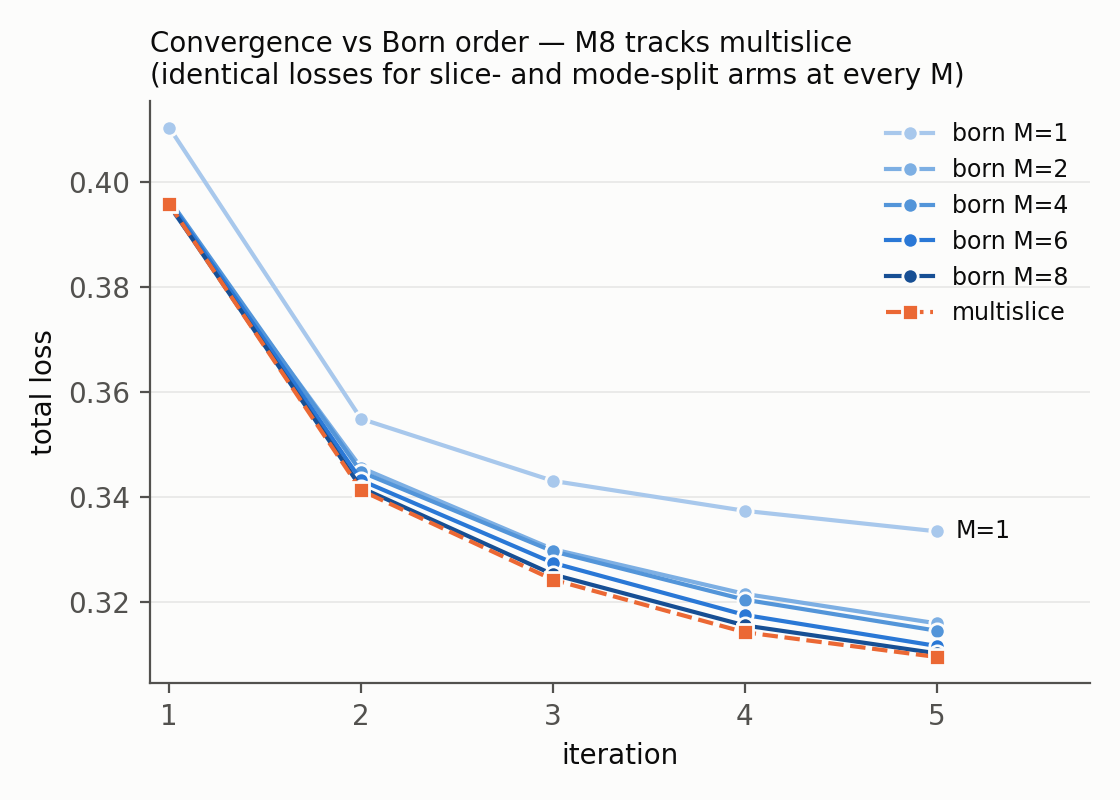
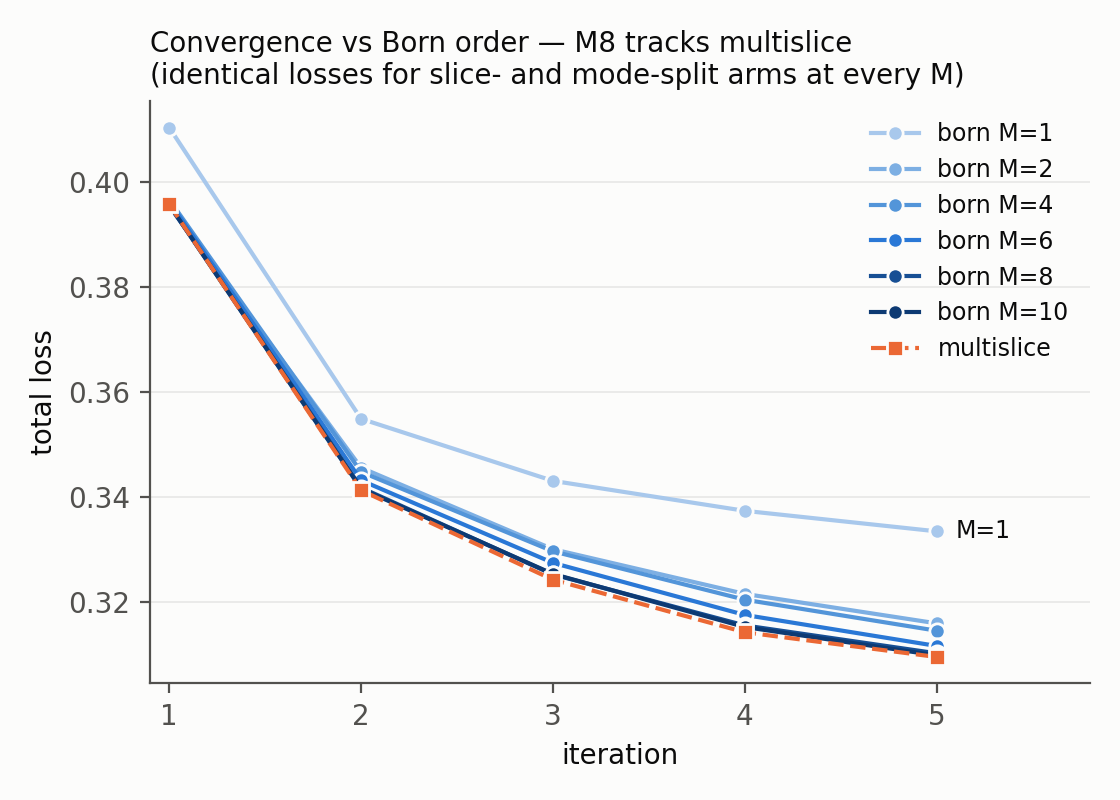
Figures: M=10 re-measured on H200 (224.2 s/iter, loss 0.3099) joins the main ladder; H100 point and hardware footnote removed

diff --git a/demo/nvlink/redo/make_figs_h200.py b/demo/nvlink/redo/make_figs_h200.py
@@ -17,7 +17,8 @@ import matplotlib.pyplot as plt
 
 SURFACE, INK, INK2 = "#fcfcfb", "#0b0b0b", "#52514e"
 ORANGE = "#eb6834"
-RAMP = ["#a8c8ec", "#7dafe3", "#5395d9", "#2a78d6", "#174f94"]  # M=1,2,4,6,8 light->dark
+RAMP = ["#a8c8ec", "#7dafe3", "#5395d9", "#2a78d6", "#174f94",
+        "#0d3a73"]  # M=1,2,4,6,8,10 light->dark
 
 plt.rcParams.update({
     "figure.facecolor": SURFACE, "axes.facecolor": SURFACE,
@@ -29,10 +30,10 @@ plt.rcParams.update({
 })
 
 MS_SITER, MS_LOSS = 302.4, 0.3096
-M_VALS = [1, 2, 4, 6, 8]
-SLICE_SITER = [92.3, 109.3, 139.7, 165.7, 202.5]
+M_VALS = [1, 2, 4, 6, 8, 10]  # M=10 measured on the second H200 pod (highM2)
+SLICE_SITER = [92.3, 109.3, 139.7, 165.7, 202.5, 224.2]
 MODE_SITER = {1: 120.5, 2: 131.9, 4: 165.6}  # M6 killed at $2 floor, M8 not reached
-LOSS5 = [0.3335, 0.3160, 0.3146, 0.3117, 0.3103]
+LOSS5 = [0.3335, 0.3160, 0.3146, 0.3117, 0.3103, 0.3099]
 ITERS = [1, 2, 3, 4, 5]
 TRAJ = {  # per-iteration total loss
     1: [0.4103, 0.3549, 0.3431, 0.3374, 0.3335],
@@ -40,6 +41,7 @@ TRAJ = {  # per-iteration total loss
     4: [0.3966, 0.3448, 0.3297, 0.3205, 0.3146],
     6: [0.3962, 0.3432, 0.3275, 0.3176, 0.3117],
     8: [0.3956, 0.3418, 0.3253, 0.3156, 0.3103],
+    10: [0.3956, 0.3416, 0.3254, 0.3153, 0.3099],
 }
 MS_TRAJ = [0.3957, 0.3413, 0.3243, 0.3143, 0.3096]
 
@@ -52,10 +54,10 @@ def save(fig, name):
     print("wrote", name)
 
 
-# M>=10 extension arms ran on 2x H100 (results_redo_highM_*): plotted AS
-# MEASURED (owner instruction) — note the hardware change vs the H200 ladder.
-EXT = {10: 0.3099}          # loss@5; add 12/14 when those arms land
-EXT_SITER = {10: 348.4}     # measured s/iter on 2x H100
+# Slots for arms still running on the highM2 H200 pod (M12, M14): fill in
+# {M: loss} and {M: s/iter} as they land; drawn dashed-open until then.
+EXT = {}
+EXT_SITER = {}
 
 # ---- A. Pareto: iter-5 loss vs time per iteration --------------------------
 fig, ax = plt.subplots(figsize=(5.6, 4.0))
@@ -70,9 +72,6 @@ for m in ext_ms:
             zorder=3)
     ax.annotate(f"M={m}*", (EXT_SITER[m], EXT[m]), xytext=(2, -16),
                 textcoords="offset points", ha="center", fontsize=9, color=INK)
-ax.annotate("*M≥10 measured on 2×H100 (slower GPUs);\n"
-            " M≤8 and multislice measured on 2×H200", (0.97, 0.60),
-            xycoords="axes fraction", ha="right", fontsize=7.5, color=INK2)
 for m, x, y, c in zip(M_VALS, SLICE_SITER, LOSS5, RAMP):
     ax.plot(x, y, "o", color=c, markersize=8, markeredgecolor=SURFACE,
             markeredgewidth=1.3, zorder=3)
